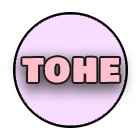
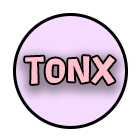
Still Sth.

Changed region(s): [[0.0857, 0.0857, 0.9429, 0.9429]]

diff --git a/TONX/Patches/CredentialsPatch.cs b/TONX/Patches/CredentialsPatch.cs
@@ -210,7 +210,8 @@ internal class TitleLogoPatch
 
         if (!(Sizer = GameObject.Find("Sizer"))) return;
         if (!(AULogo = GameObject.Find("LOGO-AU"))) return;
-        Sizer.transform.localPosition += new Vector3(0f, 0.1f, 0f);
+        Sizer.transform.localPosition += new Vector3(0f, 0.25f, 0f);
+        Sizer.transform.localScale = new(0.0075f, 0.0075f, 0.0075f);
         AULogo.transform.position += new Vector3(0f, 0.1f, 0f);
         var logoRenderer = AULogo.GetComponent<SpriteRenderer>();
         logoRenderer.sprite = Utils.LoadSprite("TONX.Resources.Images.TONX-Logo.png");

diff --git a/TONX/Patches/CreditsScreenPatch.cs b/TONX/Patches/CreditsScreenPatch.cs
@@ -99,7 +99,7 @@ public class CreditsScreenPatch
             TONXLogo.name = "TONX Logo Image";
             TONXLogo.transform.localPosition = template.transform.localPosition;
             var logoRenderer = TONXLogo.GetComponent<SpriteRenderer>();
-            logoRenderer.sprite = Utils.LoadSprite("TONX.Resources.Images.TONX-Icon.png", 76f);
+            logoRenderer.sprite = Utils.LoadSprite("TONX.Resources.Images.TONX-Logo.png", 76f);
 
             GameObject CreateBlock(string header, List<string> lines)
             {
